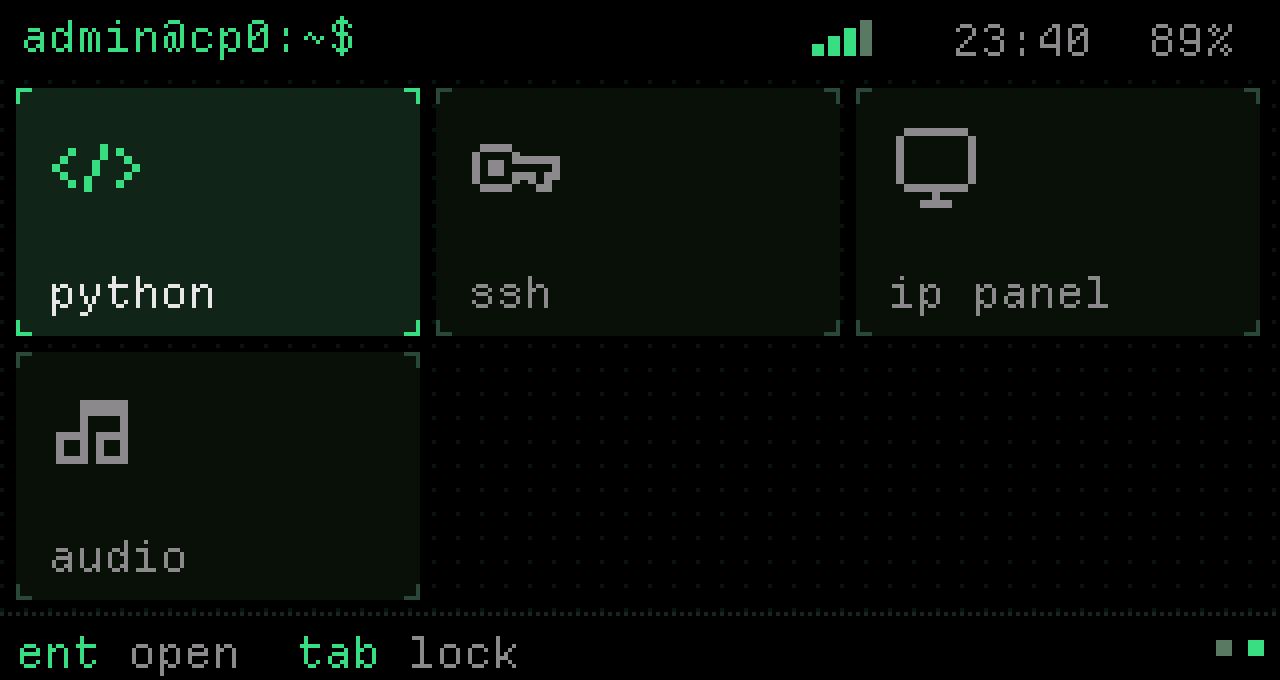
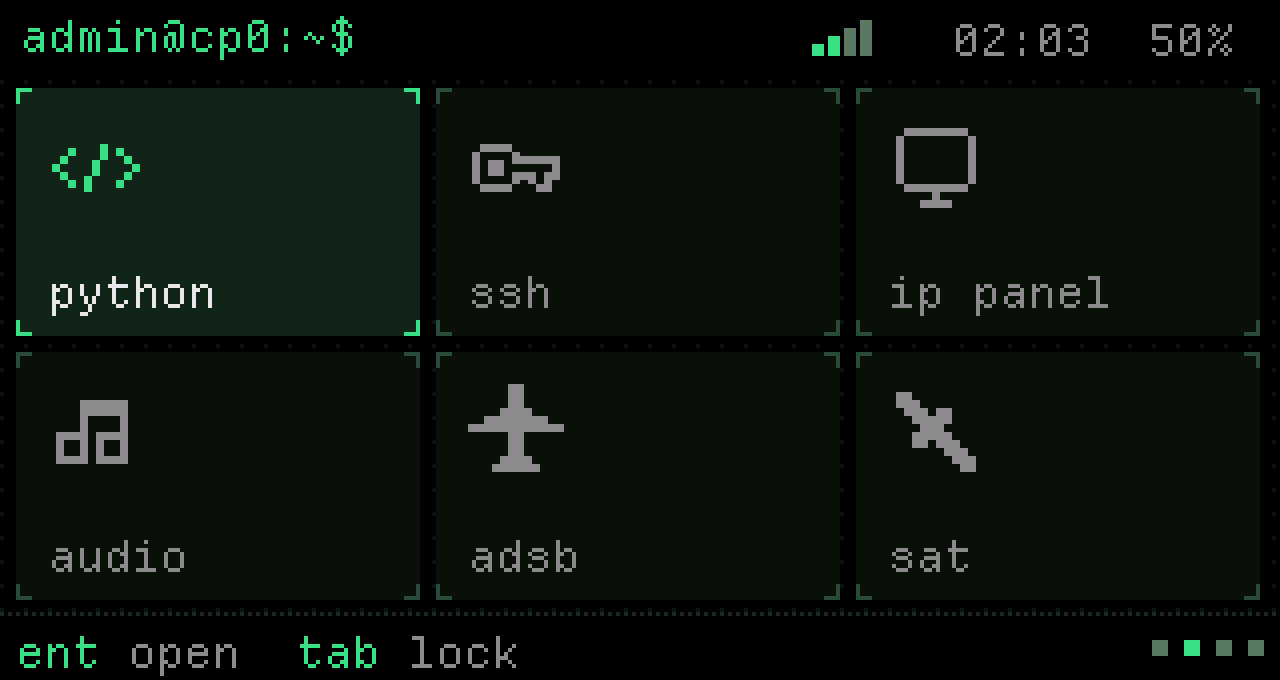
Show the eleven new apps in the README
Each app gets a line and a 4x framebuffer render like the existing
ones. Tailnet hosts and addresses and the Wi-Fi names are painted
over with placeholders in the UI font, and the aircraft, sensors,
Keys capture and IR remote are demo data run through the apps' own
decoders, so no real names, addresses or codes are published.

diff --git a/README.md b/README.md
@@ -13,6 +13,17 @@ and a small set of built-in apps sharing one theme. Forked from
 - **SDR**: RTL-SDR scope and waterfall with in-app WFM/NFM/AM demodulation to the speaker.
 - **Rec**: voice recorder with on-device transcription (whisper.cpp).
 - **Audio**: live microphone spectrum and pitch readout.
+- **ADSB**: aircraft scope and flight list decoded from `rtl_adsb` on 1090 MHz. Range and bearing use the position in `~/.config/cp0/location` (one line, `lat,lon`).
+- **Sat**: pass predictor and sky plot from Celestrak TLEs, for the ISS and Meteor-M by default and anything named in `~/sat/watch.txt`; records a pass as FM audio with `rtl_fm`. The orbit model is a simplified one, not SGP4.
+- **Sensors**: dashboard of the 433 and 868 MHz temperature and humidity sensors that `rtl_433` decodes.
+- **Keys**: looks inside the captures Spectrum saves: waveform, pulse-width decode to bits and hex, replay.
+- **Fox**: transmitter hunting on one frequency with a live RSSI meter, peak hold, history strip and a beep that speeds up with the signal.
+- **IR**: learns an infrared remote button by button (NEC decode, raw timings otherwise) and replays it; four remotes of eight buttons.
+- **Pins**: I2C bus scanner that only reads and skips addresses a kernel driver owns, and a GPIO logic view with I2C decode.
+- **Tailnet**: Tailscale peers with status, path and ping; `s` opens SSH to a peer, `e` sets an exit node.
+- **Air**: 2.4 and 5 GHz Wi-Fi channel map with a network list, and nearby Bluetooth devices.
+- **Slime**: Physarum slime-mould simulation with six species.
+- **Tracker**: four-channel chiptune tracker (two squares, wave, noise) with song save and WAV export.
 - **Settings**, **CLI**, **Python**, **SSH**, **IP Panel**.
 
 | | |
@@ -23,10 +34,18 @@ and a small set of built-in apps sharing one theme. Forked from
 | <img src="docs/screenshots/rec.png" width="400"><br>Rec: recordings with transcripts | <img src="docs/screenshots/rec-clip.png" width="400"><br>Rec: clip |
 | <img src="docs/screenshots/audio.png" width="400"><br>Audio | <img src="docs/screenshots/lockscreen.png" width="400"><br>Lock screen |
 | <img src="docs/screenshots/settings.png" width="400"><br>Settings | <img src="docs/screenshots/settings-battery.png" width="400"><br>Settings: battery |
+| <img src="docs/screenshots/home-3.png" width="400"><br>Home, page 3 | <img src="docs/screenshots/home-4.png" width="400"><br>Home, page 4 |
+| <img src="docs/screenshots/adsb.png" width="400"><br>ADSB: scope and flight list | <img src="docs/screenshots/sat.png" width="400"><br>Sat: next passes and sky plot |
+| <img src="docs/screenshots/sensors.png" width="400"><br>Sensors | <img src="docs/screenshots/keys.png" width="400"><br>Keys: decoded capture |
+| <img src="docs/screenshots/fox.png" width="400"><br>Fox | <img src="docs/screenshots/ir.png" width="400"><br>IR: learned remote |
+| <img src="docs/screenshots/pins.png" width="400"><br>Pins: I2C scan | <img src="docs/screenshots/tailnet.png" width="400"><br>Tailnet |
+| <img src="docs/screenshots/air.png" width="400"><br>Air: Wi-Fi channel map | <img src="docs/screenshots/slime.png" width="400"><br>Slime |
+| <img src="docs/screenshots/tracker.png" width="400"><br>Tracker | |
 
 Images are the device's 320x170 framebuffer drawn at 4x; the UI font is the pixel font
-DepartureMono, so the enlargement is exact. Network name and address on the lock screen
-are placeholders.
+DepartureMono, so the enlargement is exact. Network name and address on the lock screen,
+Tailnet hosts and addresses, and Wi-Fi names are placeholders. The aircraft, sensors, Keys
+capture and IR remote shown are demo data fed through the apps' own decoders.
 
 ## Install on a CardputerZero
 
